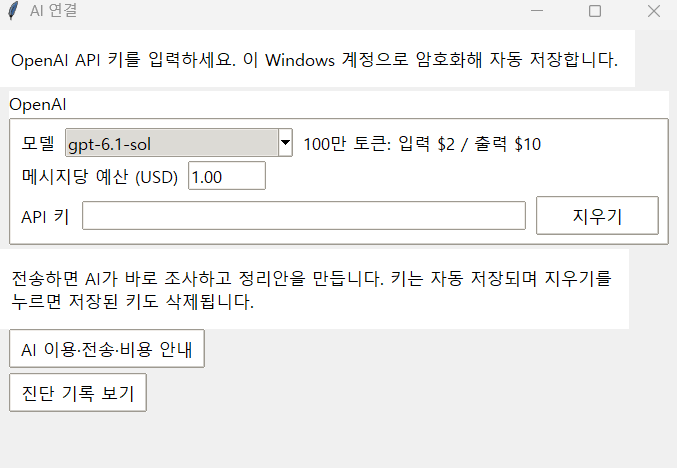
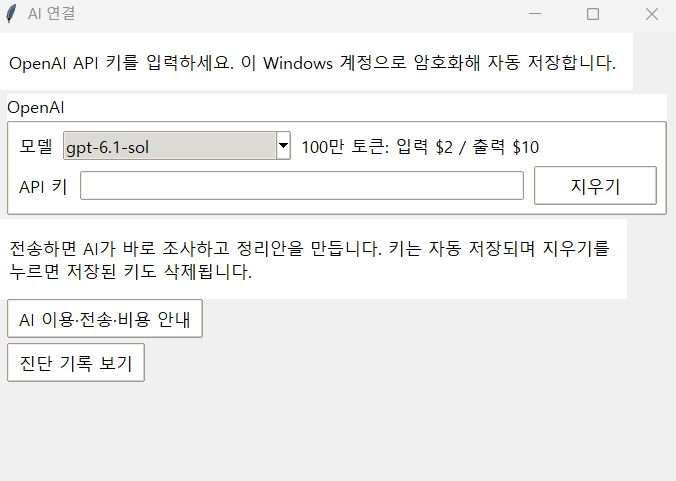
Remove message budget and update AI settings screenshot

diff --git a/folder_agent.py b/folder_agent.py
@@ -235,10 +235,6 @@ def diagnostic_writer(root):
     return write
 
 
-def default_budget(model_id):
-    return 1.0 if model_id=='gpt-6.1-sol' else .20
-
-
 def parse_budget(value):
     try:amount=float(value)
     except (TypeError,ValueError):raise ValueError('메시지당 예산은 0보다 큰 달러 금액으로 입력하세요.') from None
@@ -250,7 +246,7 @@ def run(provider,key,draft,selected,message,conversation,request_fn=ai.transport
         cancel=None,progress=lambda text:None,max_calls=None,budget=None,diagnostic=None,model_id=None):
     rates=ai.model_config(provider,model_id)
     model_id=rates['id']
-    budget=parse_budget(default_budget(model_id) if budget is None else budget)
+    budget=parse_budget(budget) if budget is not None else None
     request_id=uuid.uuid4().hex[:12]
     diagnostic_failed=False
     stage='start'
@@ -280,12 +276,12 @@ def run(provider,key,draft,selected,message,conversation,request_fn=ai.transport
             req=ai.build_request(provider,key,data,SCHEMA,SYSTEM,model_id=model_id)
             # UTF-8 byte count is a conservative token bound plus request overhead.
             upper=((len(req.data)+2048)*rates['input']+2500*rates['output'])/1_000_000
-            if usage['estimated_usd'] is None:
+            if budget is not None and usage['estimated_usd'] is None:
                 event('usage_unknown')
                 raise ValueError('사용량을 확인할 수 없어 추가 호출을 중지했습니다. 공급자 사용량을 확인하세요. 정리안은 변경하지 않았습니다.')
-            if usage['estimated_usd']+upper>budget:
+            if budget is not None and usage['estimated_usd']+upper>budget:
                 event('budget_blocked',spent_usd=usage['estimated_usd'],next_upper_usd=round(upper,6),budget_usd=budget)
-                raise ValueError(f"비용 한도: 사용 추정 ${usage['estimated_usd']:.4f} + 다음 요청 보수적 예상 ${upper:.4f}가 설정 예산 ${budget:.2f}를 넘습니다. AI 연결에서 메시지당 예산을 높인 뒤 다시 요청할 수 있습니다. 정리안은 변경하지 않았습니다.")
+                raise ValueError(f"비용 한도: 사용 추정 ${usage['estimated_usd']:.4f} + 다음 요청 보수적 예상 ${upper:.4f}가 설정 예산 ${budget:.2f}를 넘습니다. 개발용 평가의 비용 한도를 확인하세요. 정리안은 변경하지 않았습니다.")
             progress(f'AI 조사 {turn+1}회 · 확인한 항목 {len(session.seen)}개')
             usage['calls']+=1
             stage='api_request';event('call_started',call=usage['calls'])
